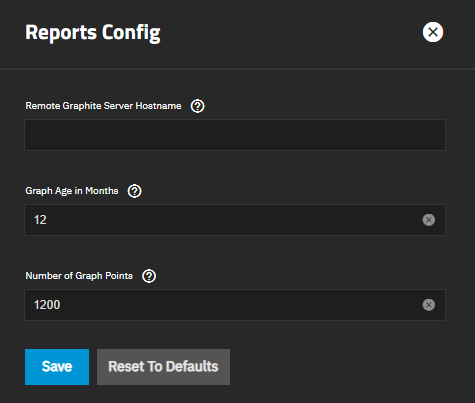
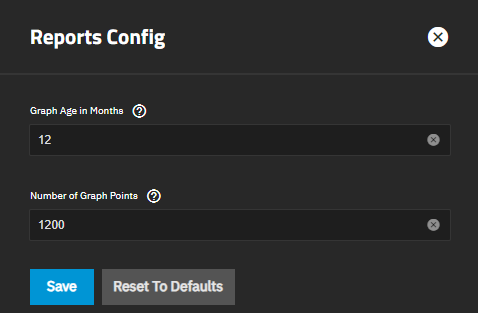
PD-660: update rsyncd cross references and reporting fields
- Update one impacted image
- Remove graphite mentions and rework for netdata backend
- Remove rsync module mentions that refer to the previous  builtin rsyncd service. Update one cross-ref to point to the app article instead.

diff --git a/content/SCALEUIReference/DataProtection/RsyncTasksScreensSCALE.md b/content/SCALEUIReference/DataProtection/RsyncTasksScreensSCALE.md
@@ -44,9 +44,9 @@ The **Add Rsync Task** and **Edit Rsync Task** display the same settings.
 | **User** | Required. Select the user to run the rsync task. Select a user that has permissions to write to the specified directory on the remote host. |
 | **Direction** | Required. Select the direction of the flow of data to the remote host. Options are **Push** or **Pull**. During a push, the dataset transfers to the remote module. During a pull, the dataset stores files from the remote system. |
 | **Description** | Enter a description of the rsync task. |
-| **Rsync Mode** | Select the mode from the dropdown list. Select **Module** to use a custom-defined remote module of the rsync server or if the remote server is a TrueNAS, and then define the [rsync module]({{< relref "ConfigRsyncServiceSCALE.md" >}}) or select **SSH** to use an SSH configuration for the rsync task. The remote system must have SSH enabled. The host system needs an established SSH connection to the remote for the rsync task. **SSH** displays more settings. |
+| **Rsync Mode** | Select the mode from the dropdown list. Select **Module** to use a custom-defined remote module from the rsync server or select **SSH** to use an SSH configuration for the rsync task. The remote system must have SSH enabled. The host system needs an established SSH connection to the remote for the rsync task. **SSH** displays more settings. |
 | **Remote Host** | Required. Enter the IP address or host name of the remote system that stores the copy. Use the format `username@remote_host` if the user name differs on the remote host. |
-| **Remote Module Name** | Required. If **Rsync Mode** is **Module** specify the name of the module on the remote rsync server. Define at least one module in [rsyncd.conf(5)](https://www.samba.org/ftp/rsync/rsyncd.conf.html) or the rsync server or in the **Rsync Modules** of another TrueNAS system. Type the **Remote Module Name** exactly as it appears on the remote system. |
+| **Remote Module Name** | Required. If **Rsync Mode** is **Module** specify the name of the module on the remote rsync server. Define at least one module in [rsyncd.conf(5)](https://www.samba.org/ftp/rsync/rsyncd.conf.html) on the rsync server. Type the **Remote Module Name** exactly as it appears on the remote system. |
 | **Remote SSH Port** | Required when **Rsync Mode** is **SSH**. Enter the SSH port number of the remote system. By default, **22** is reserved in TrueNAS. |
 | **Remote Path** | Enter an existing path on the remote host. Maximum path length is 255 characters. |
 | **Validate Remote Path** | Displays if **Rsync Mode** is **SSH**. Select to automatically create the defined **Remote Path** if it does not exist. |

diff --git a/content/SCALETutorials/DataProtection/RsyncTasksSCALE.md b/content/SCALETutorials/DataProtection/RsyncTasksSCALE.md
@@ -155,11 +155,11 @@ Click **Save**.
 ### Creating an Rsync Task Using Module Mode
 
 Before you create an rsync task on the host system, you must create a module on the remote system.
-You must define at least one module in [rsyncd.conf(5)](https://www.samba.org/ftp/rsync/rsyncd.conf.html) of the rsync server or in the rsync modules of another system.
-When TrueNAS is the remote system, create a module in **System Settings > Services > Rsync** on the **Rsync Modules** screen.
-See [Configuring an Rsync Module]({{< relref "ConfigRsyncServiceSCALE.md" >}}) for more information.
+You must define at least one module in [rsyncd.conf(5)](https://www.samba.org/ftp/rsync/rsyncd.conf.html) of the rsync server.
+The [Rsync Daemon]({{< relref "Rsyncd.md" >}}) application is available in situations where configuring TrueNAS as an rsync server with an rsync module is necessary.
+
 {{< expand "Click Here for More Information" "v" >}}
-After adding the rsync module, go to **Data Protection > Rsync Tasks**, and click **Add** to open the **Add Rsync Task** configuration screen. 
+When the rsync server is configured, go to **Data Protection > Rsync Tasks**, and click **Add** to open the **Add Rsync Task** configuration screen. 
 
 Enter the required information as described in [Creating an Rsync Task](#creating-an-rsync-task) above. 
 
@@ -168,9 +168,9 @@ Enter the required information as described in [Creating an Rsync Task](#creatin
 Select the direction for the rsync task.
 
 Next, enter the **Remote Host** IP address or hostname.
-Use the format *username@remote_host* when the username differs from the host entered into the **Remote Host** field. 
+Use the format *username@remote_host* when the username differs from the host entered into the **Remote Host** field.
 
-Now select **Module** from the **Rsync Mode** dropdown list, and then enter either the remote system host name or IP address exactly as it appears on the remote system in **Remote Module Name**. 
+Now select **Module** from the **Rsync Mode** dropdown list, and then enter either the remote system host name or IP address exactly as it appears on the remote system in **Remote Module Name**.
 
 Select a schedule for the rsync task.
 

diff --git a/content/SCALETutorials/ConfigReportsScale.md b/content/SCALETutorials/ConfigReportsScale.md
@@ -16,21 +16,11 @@ TrueNAS has a built-in reporting engine that provides helpful graphs and informa
 ![CPUReportingUsageTemp](/images/SCALE/23.10/CPUReportingUsageTemp.png "CPU Reporting Usage and Temperature")
 
 {{< expand "What does TrueNAS use for reporting?" "v" >}}
-TrueNAS uses [Graphite](https://graphiteapp.org/ "Graphite Homepage") to gather metrics and create visualizations.
-
-TrueNAS uses [collectd](https://collectd.org/) to provide reporting statistics. 
+TrueNAS uses [netdata](https://github.com/netdata/netdata) to gather system metrics and present them in the **Reporting** screens.
 {{< /expand >}}
 
 Reporting data is saved to permit viewing and monitoring usage trends over time.
 This data is preserved across system upgrades and restarts.
-
-{{< hint type=important >}}
-Because reporting data is written frequently do not store it on the boot pool or operating system device.
-
-TrueNAS clears the report history when you change the report CPU, graph age, or graph points options.
-{{< /hint >}}
-
-Data files are saved in <file>/var/db/collectd/rrd/</file>.
 
 ## Configuring Report Settings
 Click the <i class="material-icons" aria-hidden="true" title="Settings">settings</i> to open the **Reports Configuration** configuration screen where you control how TrueNAS displays the graphs.
@@ -38,8 +28,6 @@ Click the <i class="material-icons" aria-hidden="true" title="Settings">settings
 ![ReportsConfig](/images/SCALE/23.10/ReportsConfig.png "Reports Configuration")
 
 Select the general options you want to use in your TrueNAS.
-
-Specify either the host name or IP address of the [Graphite](https://graphiteapp.org/) server you want to use.
 
 Click **Save**.
 

diff --git a/content/_includes/SystemReportingFields.md b/content/_includes/SystemReportingFields.md
@@ -1,11 +1,8 @@
 &NewLine;
 
-**General Options**
-
 {{< truetable >}}
 | Name | Description |
 |------|-------------|
-| **Remote Graphite Server Hostname** | Remote [Graphite](https://graphiteapp.org/) server host name or IP address. |
 | **Graph Age in Months** | Maximum time (in months) TrueNAS stores a graph. Allowed values are 1-60. Changing this value causes the **Confirm RRD Destroy** dialog to display. Changes do not take effect until TrueNAS destroys the existing reporting database. |
 | **Number of Graph Points** | The number of points for each hourly, daily, weekly, monthly, or yearly graph. Allowed values are 1-4096. Changing this value displays the **Confirm RRD Destroy** dialog. Changes do not take effect until TrueNAS destroys the existing reporting database. |
 | **Reset to Defaults** | Resets all entered values and settings back to defaults. |
